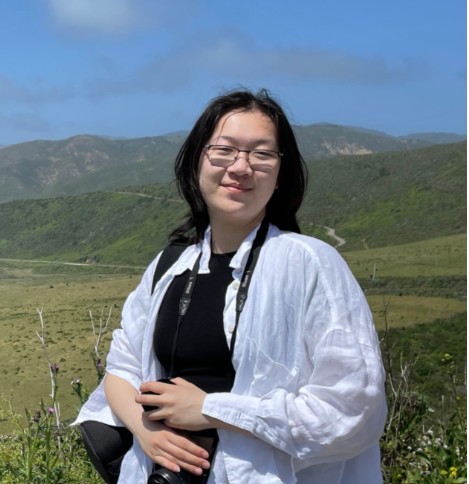
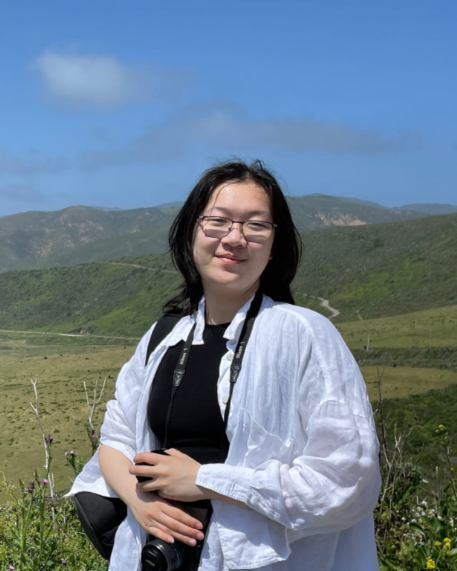
Added Purav and Rui

diff --git a/src/components/meetTheTeam.tsx b/src/components/meetTheTeam.tsx
@@ -9,6 +9,8 @@ import zoey from '../static/assets/Zoey-Xie.png'
 import hana from '../static/assets/Hana-Greenberg.png'
 import brandon from '../static/assets/Tang_Brandon.jpg'
 import sherry from '../static/assets/Sherry-Wang.png'
+import purav from '../static/assets/Purav-Gupta.png'
+import rui from '../static/assets/Rui-Weng.png'
 import { Card, CardHeader, CardBody, Box, SimpleGrid } from '@chakra-ui/react'
 
 const MeetTheTeam: React.FC = () => {
@@ -79,8 +81,8 @@ const MeetTheTeam: React.FC = () => {
                         <TeamCard
                             role="Technical Development"
                             name="Purav Gupta"
-                            image={brandon}
-                            description="Need to fill in"
+                            image={purav}
+                            description="Purav is a third-year student at the University of Toronto, specializing in Bioinformatics and Compuational Biology, along with Molecular Genetics and Computer Science. He is very passionate about the intersection of biology and machine learning and outside of research, you can find him buried in books or out on a run!"
                         />
                     </Box>
                     <Box>
@@ -135,8 +137,8 @@ const MeetTheTeam: React.FC = () => {
                         <TeamCard
                             role="Community"
                             name="Rui Weng"
-                            image={brandon}
-                            description="Need to fill in"
+                            image={rui}
+                            description="Hi everyone! My name is Rui, I’m a second-year CS + Math student at UofT, and I’m super excited to be Co-director of Community Engagement this year! Fun fact: I like playing badminton, and I have a pet bunny 🏸🐰 "
                         />
                     </Box>
                 </SimpleGrid>
